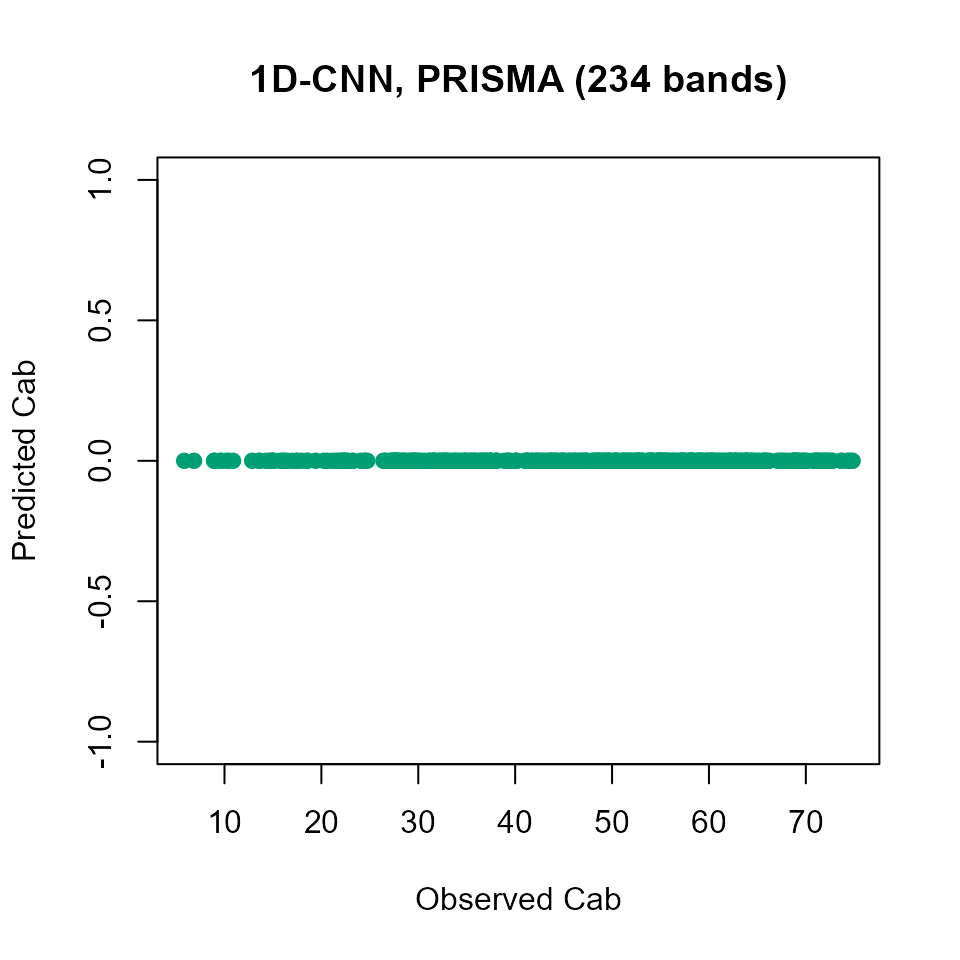
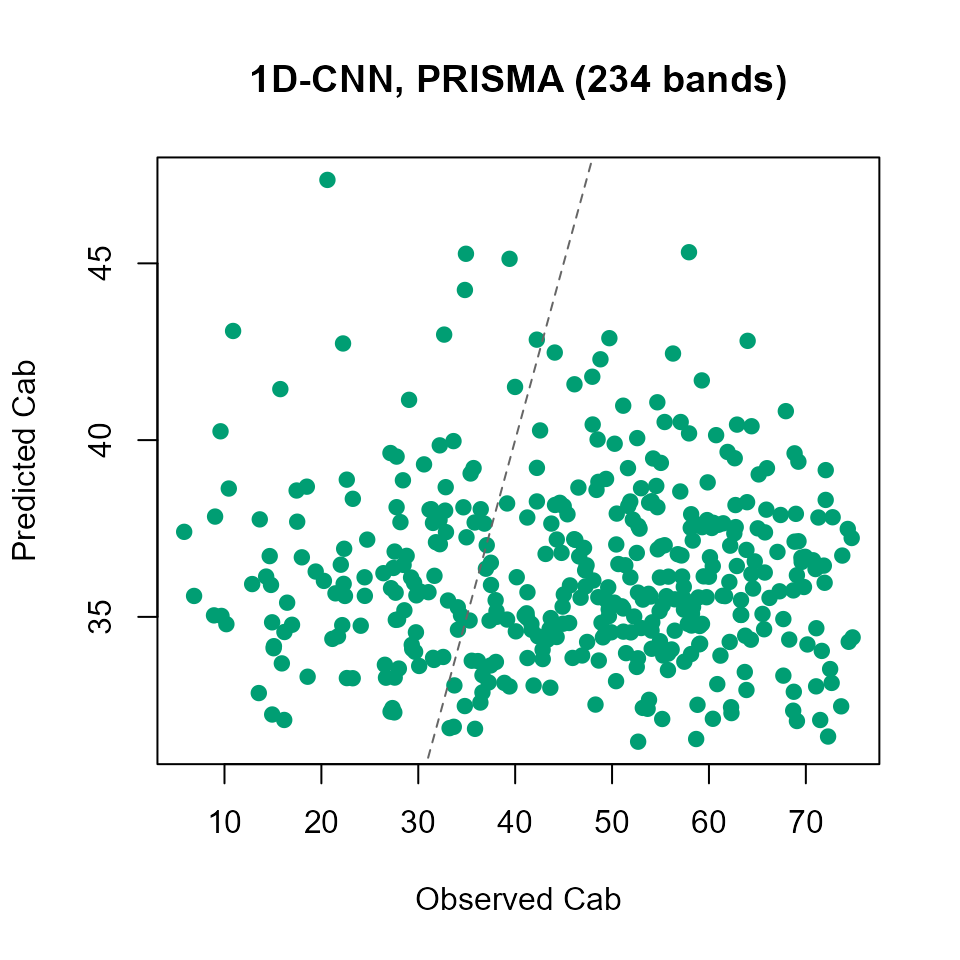
Fix dead-gradient bug in getMLmodel()'s regression output layer
Both the 'Hidden-layers' (dense) and 'CNN' branches in getMLmodel.R
(and the duplicated builders in getMLmodel_withRetrain.R) used
activation='relu' on the final, single-unit regression output layer.
A relu output can get permanently stuck at exactly 0 whenever its
pre-activation goes negative early in training, since relu's gradient
is then exactly 0 too -- there is no way back for that unit regardless
of epoch budget. Changed to activation='linear', the standard choice
for an unbounded regression output.

Concretely, on Tutorial 13's CNN section (234 PRISMA bands -- higher-
dimensional input makes the dead-unit trap more likely to fully
capture the single output neuron), independent-test R2 went from
-7.73 (predictions collapsed to a near-constant ~0) to -0.39 (a real,
if weak, fit) after this fix, with no other change.

Also: getSplitData()/getSplitData_noMessages() skip the internal
corrplot() feature-correlation plot entirely above 80 variables now,
rather than attempting to render one -- at ~230 PRISMA bands even with
labels dropped (previous commit) the tiles are too small for any
visible colour/structure, so the plot was pure noise.

Rebuilt t13-deep-learning-inversion and synced docs/toolsrtm/.

diff --git a/docs/toolsrtm/articles/t13-deep-learning-inversion.html b/docs/toolsrtm/articles/t13-deep-learning-inversion.html
@@ -280,8 +280,8 @@ Tutorial 12’s Random Forest<a class="anchor" aria-label="anchor" href="#indepe
 <span>      <span class="st">" RMSE="</span>, <span class="fu"><a href="https://rdrr.io/r/base/Round.html" class="external-link">round</a></span><span class="op">(</span><span class="fu">rmse_f</span><span class="op">(</span><span class="va">obs_test</span>, <span class="va">pred_test_dl</span><span class="op">)</span>, <span class="fl">2</span><span class="op">)</span>,</span>
 <span>      <span class="st">" bias="</span>, <span class="fu"><a href="https://rdrr.io/r/base/Round.html" class="external-link">round</a></span><span class="op">(</span><span class="fu">bias_f</span><span class="op">(</span><span class="va">obs_test</span>, <span class="va">pred_test_dl</span><span class="op">)</span>, <span class="fl">2</span><span class="op">)</span>, <span class="st">"\n"</span><span class="op">)</span></span>
 <span><span class="op">}</span></span>
-<span><span class="co">#&gt; 19/19 - 0s - 40ms/epoch - 2ms/step</span></span>
-<span><span class="co">#&gt; Dense DL, independent test set: R2= 0.081  RMSE= 15.15  bias= 1.14</span></span></code></pre></div>
+<span><span class="co">#&gt; 19/19 - 0s - 60ms/epoch - 3ms/step</span></span>
+<span><span class="co">#&gt; Dense DL, independent test set: R2= 0.034  RMSE= 15.53  bias= -2.57</span></span></code></pre></div>
 <div class="sourceCode" id="cb10"><pre class="downlit sourceCode r">
 <code class="sourceCode R"><span><span class="kw">if</span> <span class="op">(</span><span class="va">dl_result</span><span class="op">$</span><span class="va">ok</span><span class="op">)</span> <span class="op">{</span></span>
 <span>  <span class="va">fit_rf</span> <span class="op">&lt;-</span> <span class="fu"><a href="../reference/get.inversion.html">get.inversion</a></span><span class="op">(</span>data <span class="op">=</span> <span class="va">dataset_dense</span><span class="op">[</span><span class="va">train_idx</span>, <span class="op">]</span>, depVar <span class="op">=</span> <span class="st">"Cab"</span>, inputs <span class="op">=</span> <span class="va">band_names</span>,</span>
@@ -308,8 +308,8 @@ Tutorial 12’s Random Forest<a class="anchor" aria-label="anchor" href="#indepe
 <tbody>
 <tr class="odd">
 <td align="left">Dense DL (getMLmodel)</td>
-<td align="right">0.081</td>
-<td align="right">15.15</td>
+<td align="right">0.034</td>
+<td align="right">15.53</td>
 </tr>
 <tr class="even">
 <td align="left">Random Forest (get.inversion, Tutorial 12)</td>
@@ -371,7 +371,6 @@ contiguous hyperspectral bands are a much fairer test of that idea:</p>
 <span>                   optimizer <span class="op">=</span> <span class="st">"adam"</span>, n.epochs <span class="op">=</span> <span class="fl">40</span>, batch.size <span class="op">=</span> <span class="fl">64</span>, save.model <span class="op">=</span> <span class="cn">FALSE</span><span class="op">)</span></span>
 <span>  <span class="fu"><a href="https://rdrr.io/r/base/list.html" class="external-link">list</a></span><span class="op">(</span>ok <span class="op">=</span> <span class="cn">TRUE</span>, model <span class="op">=</span> <span class="va">m</span><span class="op">)</span></span>
 <span><span class="op">}</span>, error <span class="op">=</span> <span class="kw">function</span><span class="op">(</span><span class="va">e</span><span class="op">)</span> <span class="fu"><a href="https://rdrr.io/r/base/list.html" class="external-link">list</a></span><span class="op">(</span>ok <span class="op">=</span> <span class="cn">FALSE</span>, msg <span class="op">=</span> <span class="fu"><a href="https://rdrr.io/r/base/conditions.html" class="external-link">conditionMessage</a></span><span class="op">(</span><span class="va">e</span><span class="op">)</span><span class="op">)</span><span class="op">)</span></span></code></pre></div>
-<p><img src="t13-deep-learning-inversion_files/figure-html/cnn-prisma-1.png" class="r-plt" alt="" width="576"></p>
 <div class="sourceCode" id="cb13"><pre class="downlit sourceCode r">
 <code class="sourceCode R"><span><span class="kw">if</span> <span class="op">(</span><span class="va">cnn_result</span><span class="op">$</span><span class="va">ok</span><span class="op">)</span> <span class="op">{</span></span>
 <span>  <span class="va">pred_test_cnn</span> <span class="op">&lt;-</span> <span class="fu"><a href="https://rdrr.io/r/base/numeric.html" class="external-link">as.numeric</a></span><span class="op">(</span><span class="fu"><a href="https://rdrr.io/r/stats/predict.html" class="external-link">predict</a></span><span class="op">(</span><span class="va">cnn_result</span><span class="op">$</span><span class="va">model</span><span class="op">$</span><span class="va">model</span>,</span>
@@ -380,8 +379,8 @@ contiguous hyperspectral bands are a much fairer test of that idea:</p>
 <span>  <span class="fu"><a href="https://rdrr.io/r/base/cat.html" class="external-link">cat</a></span><span class="op">(</span><span class="st">"CNN (PRISMA, "</span>, <span class="fu"><a href="https://rdrr.io/r/base/length.html" class="external-link">length</a></span><span class="op">(</span><span class="va">prisma_bands</span><span class="op">)</span>, <span class="st">"bands), independent test set: R2="</span>,</span>
 <span>      <span class="fu"><a href="https://rdrr.io/r/base/Round.html" class="external-link">round</a></span><span class="op">(</span><span class="fu">r2_f</span><span class="op">(</span><span class="va">obs_test_h</span>, <span class="va">pred_test_cnn</span><span class="op">)</span>, <span class="fl">3</span><span class="op">)</span>, <span class="st">" RMSE="</span>, <span class="fu"><a href="https://rdrr.io/r/base/Round.html" class="external-link">round</a></span><span class="op">(</span><span class="fu">rmse_f</span><span class="op">(</span><span class="va">obs_test_h</span>, <span class="va">pred_test_cnn</span><span class="op">)</span>, <span class="fl">2</span><span class="op">)</span>, <span class="st">"\n"</span><span class="op">)</span></span>
 <span><span class="op">}</span></span>
-<span><span class="co">#&gt; 13/13 - 0s - 50ms/epoch - 4ms/step</span></span>
-<span><span class="co">#&gt; CNN (PRISMA,  234 bands), independent test set: R2= -7.726  RMSE= 49.09</span></span></code></pre></div>
+<span><span class="co">#&gt; 13/13 - 0s - 69ms/epoch - 5ms/step</span></span>
+<span><span class="co">#&gt; CNN (PRISMA,  234 bands), independent test set: R2= -0.385  RMSE= 19.56</span></span></code></pre></div>
 <div class="sourceCode" id="cb14"><pre class="downlit sourceCode r">
 <code class="sourceCode R"><span><span class="kw">if</span> <span class="op">(</span><span class="va">cnn_result</span><span class="op">$</span><span class="va">ok</span><span class="op">)</span> <span class="op">{</span></span>
 <span>  <span class="fu"><a href="https://rdrr.io/r/graphics/plot.default.html" class="external-link">plot</a></span><span class="op">(</span><span class="va">obs_test_h</span>, <span class="va">pred_test_cnn</span>, pch <span class="op">=</span> <span class="fl">19</span>, col <span class="op">=</span> <span class="st">"#009E73"</span>,</span>
